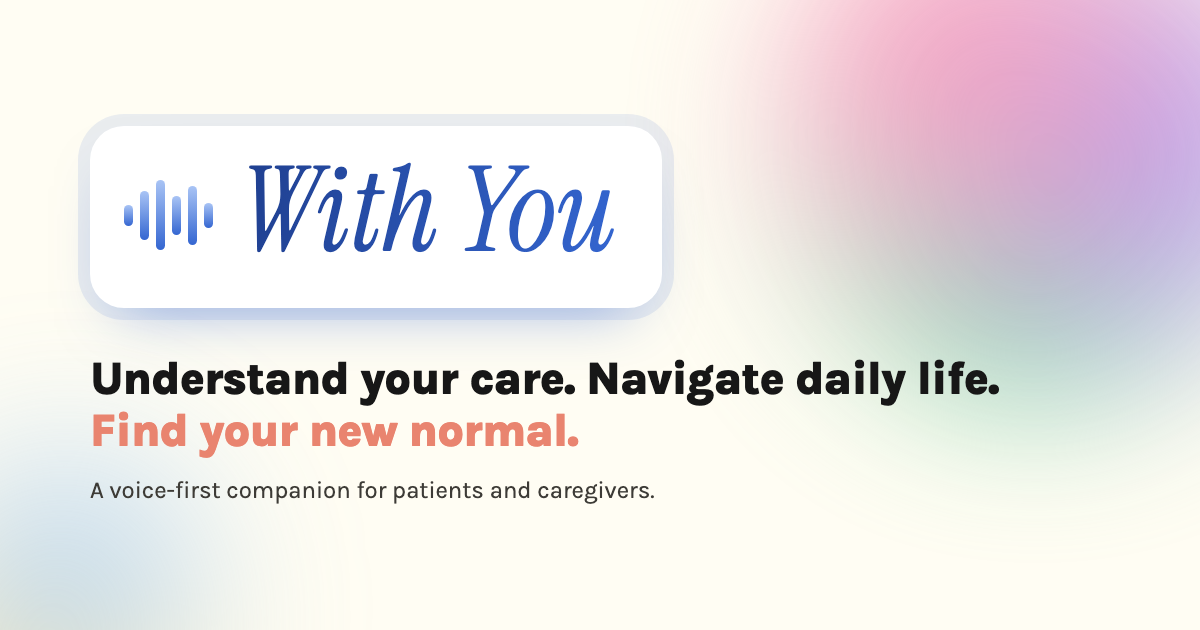
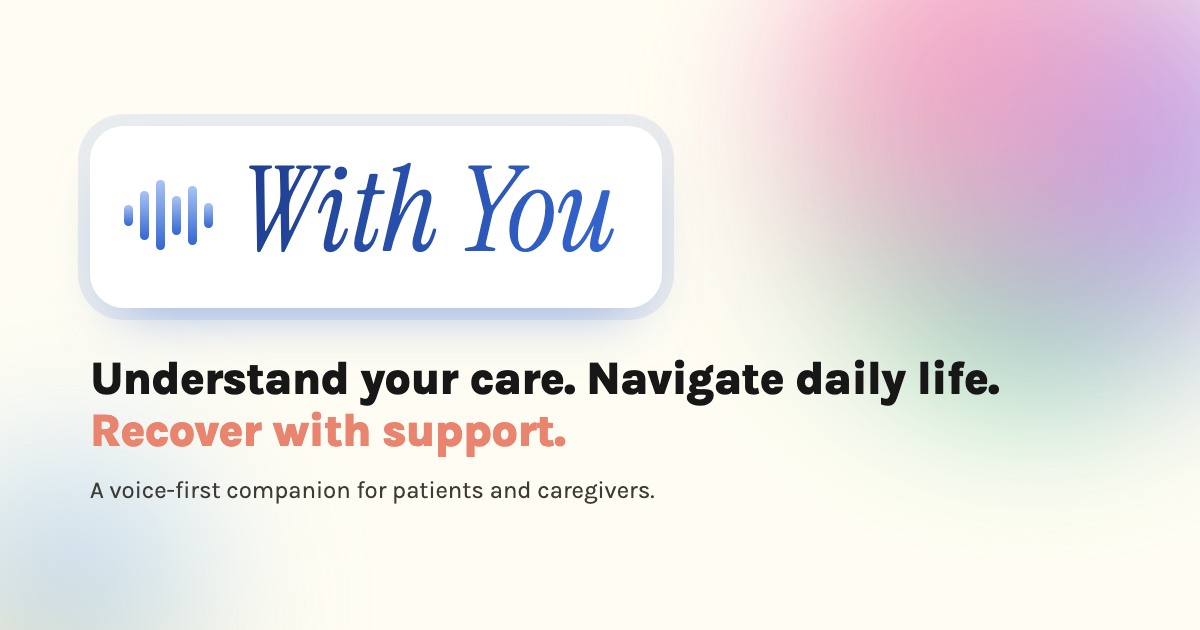
Hero: 'Recover with support' + equity line; updated founder story; refreshed share thumbnail

Changed region(s): [[0.0925, 0.6635, 0.4933, 0.7238]]

diff --git a/why.html b/why.html
@@ -23,7 +23,7 @@
   <meta property="og:image" content="https://yeshinin.github.io/with-you/images/og-image.png" />
   <meta property="og:image:width" content="1200" />
   <meta property="og:image:height" content="630" />
-  <meta property="og:image:alt" content="With You: understand your care, navigate daily life, find your new normal." />
+  <meta property="og:image:alt" content="With You: understand your care, navigate daily life, recover with support." />
   <meta name="twitter:card" content="summary_large_image" />
   <meta name="twitter:image" content="https://yeshinin.github.io/with-you/images/og-image.png" />
 </head>
@@ -57,8 +57,12 @@
         <div>
           <p class="eyebrow">Why I’m building this</p>
           <div class="founder-story">
-            <p>I’m Yeshi Dolma, an applied ML scientist with a decade working on causal inference and predictive models at big tech. I have also been a family caregiver for eight years. In these years of caring for my parent through cancer, a liver transplant, and post-transplant complications, I came to understand the love, responsibility, and exhaustion that caregiving can hold. I learned how much happens between medical appointments and how much families must figure out themselves.</p>
+            <p>I’m Yeshi Dolma. My path towards improving public health is not a linear academic choice. It is shaped by over a decade of navigating healthcare systems as a primary caregiver where I became an informed advocate and observed how consistently outcomes are shaped by access, care processes, and structural inequities. Over the last few years, I’ve been thinking more at the systems level, what patterns keep repeating, data biases that leave the most vulnerable population behind and where the right technology could actually move the needle.</p>
+            <p>Professionally, I bring a decade of experience as an Applied ML Scientist at big tech, building and scaling predictive machine learning models and causal inference.</p>
+            <p>As a family caregiver for eight years, caring for my parent through cancer, a liver transplant, and post-transplant complications, I understand the love, responsibility, and exhaustion that caregiving can hold. I learned how much happens between medical appointments and how much families must figure out themselves.</p>
             <p>I’m building With You to help patients and caregivers understand their care, navigate everyday life, and feel supported as they find their own new normal in their complex care journey. Looking for help when you’re in pain, frightened, or overwhelmed asks something very different of you than using any random app on an ordinary day. I’m building With You around that reality: to make care easier to understand and everyday life more manageable, with support that meets patients and caregivers where they are.</p>
+            <p>It’s an audacious dream, but I’m excited to work towards better public-health outcomes.</p>
+            <p>Without health security, human potential is unfairly constrained; equitable health must come first so anyone can dream.</p>
           </div>
           <p class="founder-name">Yeshi Dolma <span>· Founder</span></p>
         </div>

diff --git a/index.html b/index.html
@@ -23,7 +23,7 @@
   <meta property="og:image" content="https://yeshinin.github.io/with-you/images/og-image.png" />
   <meta property="og:image:width" content="1200" />
   <meta property="og:image:height" content="630" />
-  <meta property="og:image:alt" content="With You: understand your care, navigate daily life, find your new normal." />
+  <meta property="og:image:alt" content="With You: understand your care, navigate daily life, recover with support." />
   <meta name="twitter:card" content="summary_large_image" />
   <meta name="twitter:image" content="https://yeshinin.github.io/with-you/images/og-image.png" />
 </head>
@@ -69,11 +69,15 @@
         <h1>
           Understand your care.<br />
           Navigate daily life.<br />
-          <span class="soft">Find your new normal.</span>
+          <span class="soft">Recover with support.</span>
         </h1>
         <p class="lede">
           A voice-first companion for patients and caregivers, from hospital
           admission through recovery, until you reach your own new normal.
+        </p>
+        <p class="lede-note">
+          Technology designed to reduce disparity in support: across language, health literacy,
+          everyday circumstances and comfort with technology.
         </p>
         <div class="hero-actions">
           <a href="#contact" class="btn btn-dark">Get in touch</a>

diff --git a/styles.css b/styles.css
@@ -186,6 +186,15 @@ sup { font-size: 0.6em; color: var(--muted); margin-left: 1px; }
   max-width: 40ch;
   margin: 28px 0 36px;
 }
+.lede-note {
+  max-width: 52ch;
+  margin: -14px 0 34px;
+  padding-left: 14px;
+  border-left: 3px solid var(--hub-blue);
+  font-size: 17px;
+  line-height: 1.55;
+  color: var(--ink-2);
+}
 .hero-actions { display: flex; gap: 12px; flex-wrap: wrap; }
 
 .orb {
